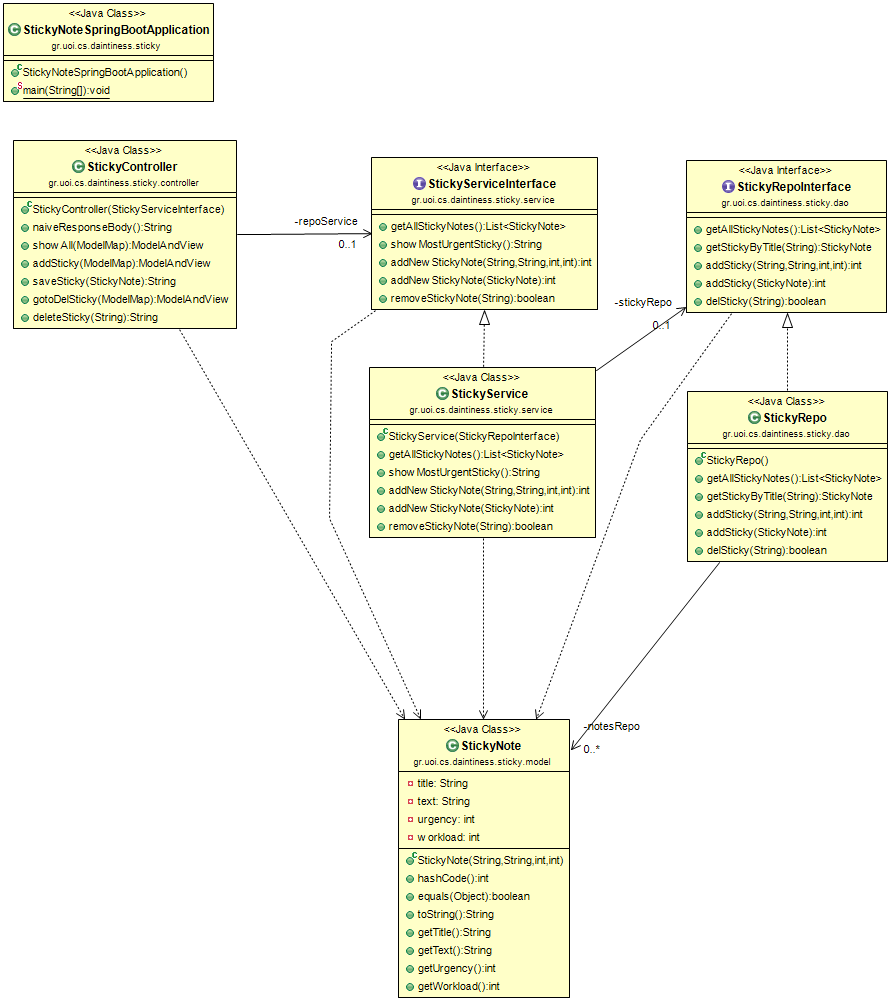
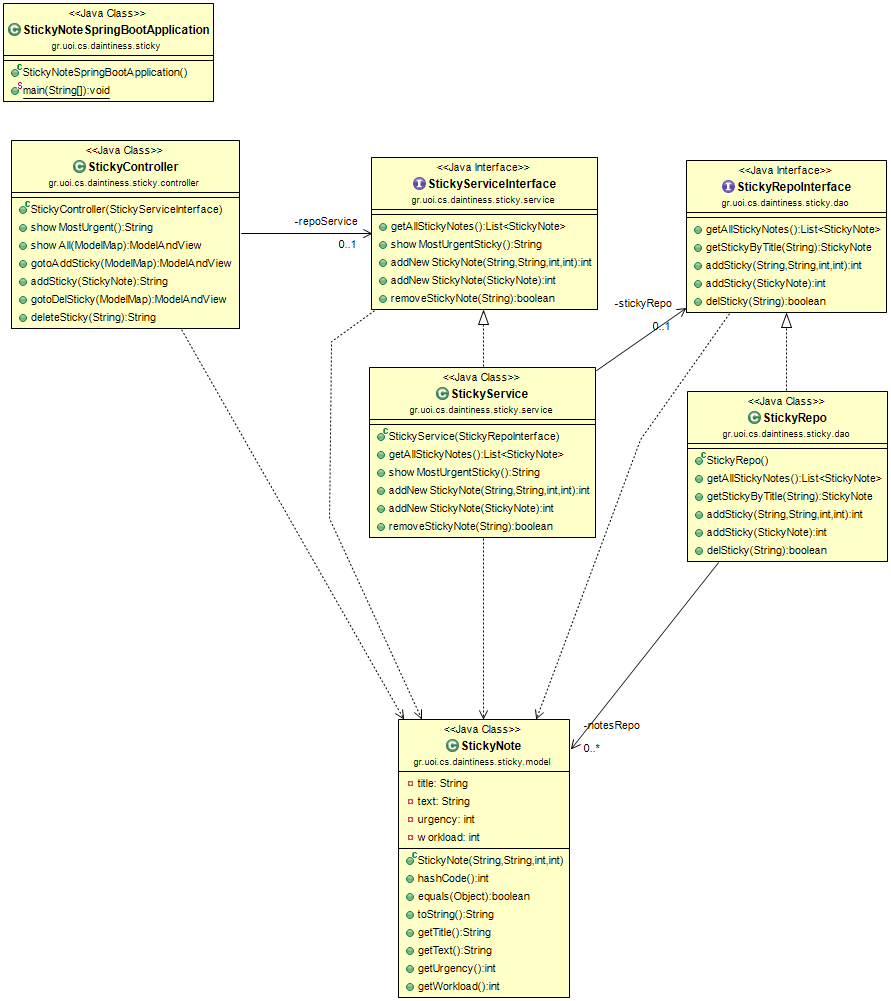
improved controller method names

diff --git a/src/main/java/gr/uoi/cs/daintiness/sticky/controller/StickyController.java b/src/main/java/gr/uoi/cs/daintiness/sticky/controller/StickyController.java
@@ -24,7 +24,7 @@ public class StickyController {
 	
 	@RequestMapping(value = "/listMaxUrgency")
 	@ResponseBody
-	public String naiveResponseBody() {
+	public String showMostUrgent() {
 		String urgentTitle = repoService.showMostUrgentSticky();
 		return "<p>Max urgent: " + urgentTitle + "</p>";
 	}
@@ -38,14 +38,14 @@ public class StickyController {
 	}
 
 	@RequestMapping(value = "/add_sticky")
-	public ModelAndView addSticky(ModelMap model) {
+	public ModelAndView gotoAddSticky(ModelMap model) {
 		StickyNote sticky = new StickyNote("","",0,0);
 		model.addAttribute("obj", sticky);
 		return new ModelAndView("add_sticky", model);
 	}
 
 	@PostMapping("/save")
-	public String saveSticky(@ModelAttribute("obj") StickyNote newSticky) {
+	public String addSticky(@ModelAttribute("obj") StickyNote newSticky) {
 		this.repoService.addNewStickyNote(newSticky);
 		return "redirect:/index.html";
 	}
